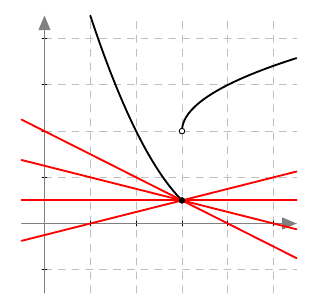
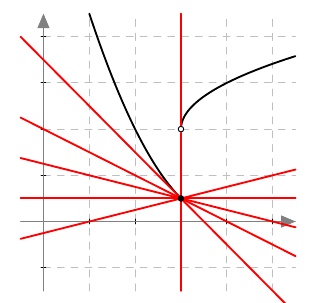
Lisää

diff --git a/kurssit/maa6/luku2/index.html b/kurssit/maa6/luku2/index.html
@@ -793,7 +793,9 @@ topnav: maa6
             <br>
             <img src="/kurssit/maa6/kuvat/kuva78.png" max-width: 100%; width: auto; height: auto;/>
             <br>
-             
+            Alla näkyy muutamia suoria, jotka sivuavat funktion kuvaajaa kohdassa $x = 3$. Yksikäsitteistä tangettia on mahdotonta piirtää, vaihtoehtoja on vaikka kuinka paljon. Funktio $f$ ei ole derivoituva kohdassa $x = 3$.
+            <br>
+            <img src="/kurssit/maa6/kuvat/kuva78.png" max-width: 100%; width: auto; height: auto;/>
         </p>
 
         <div class="close-section">
